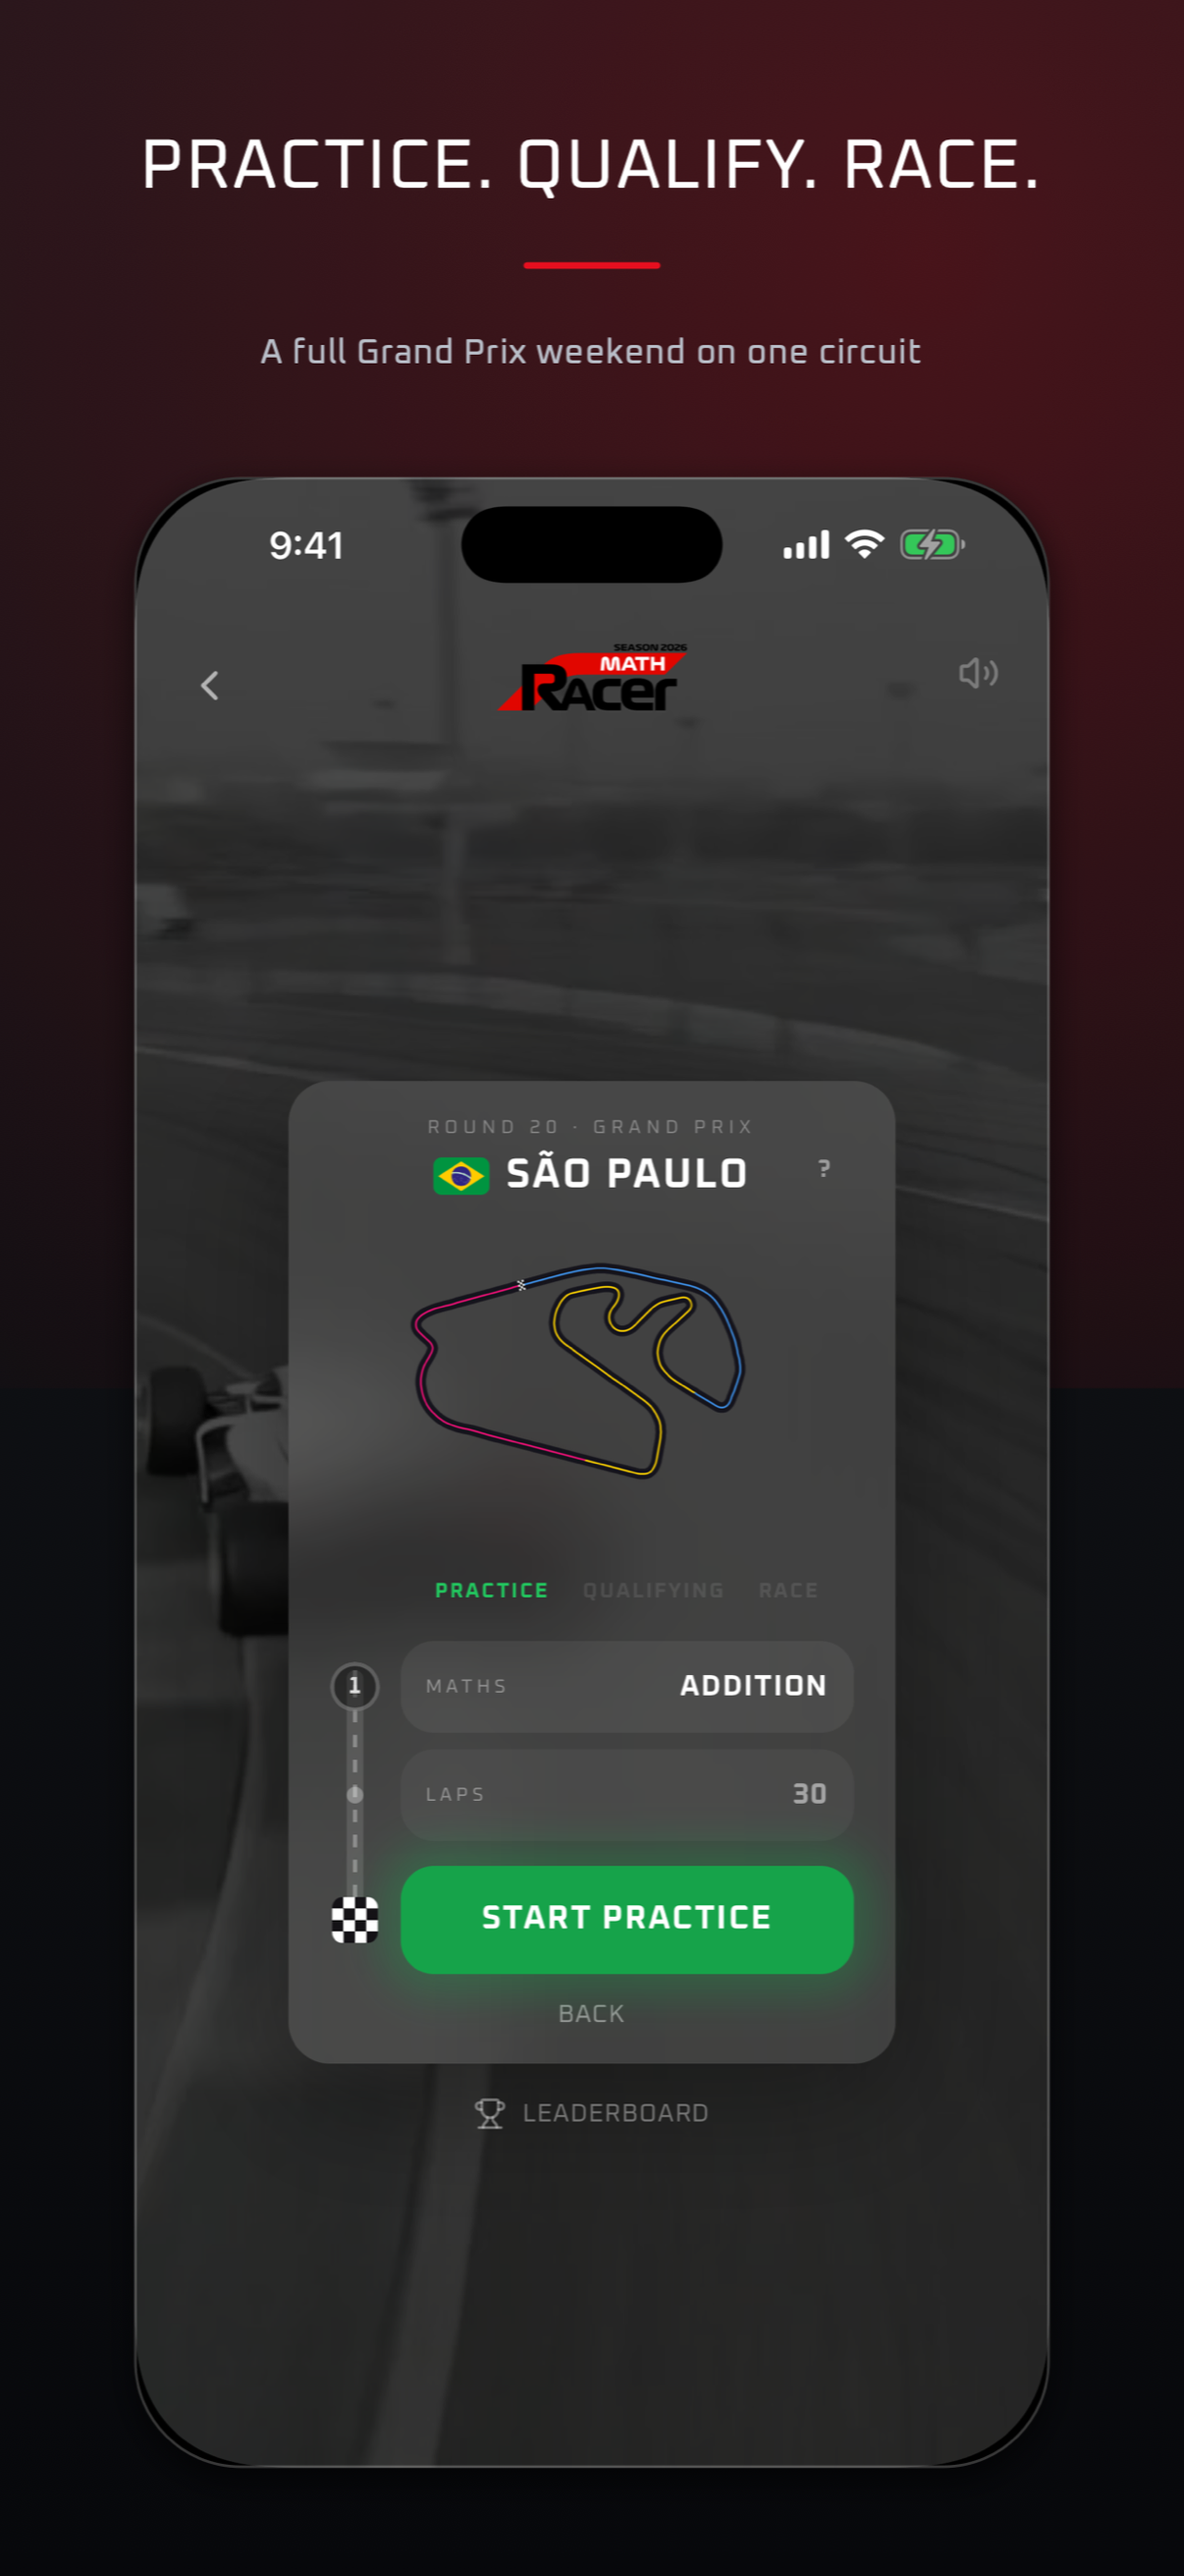
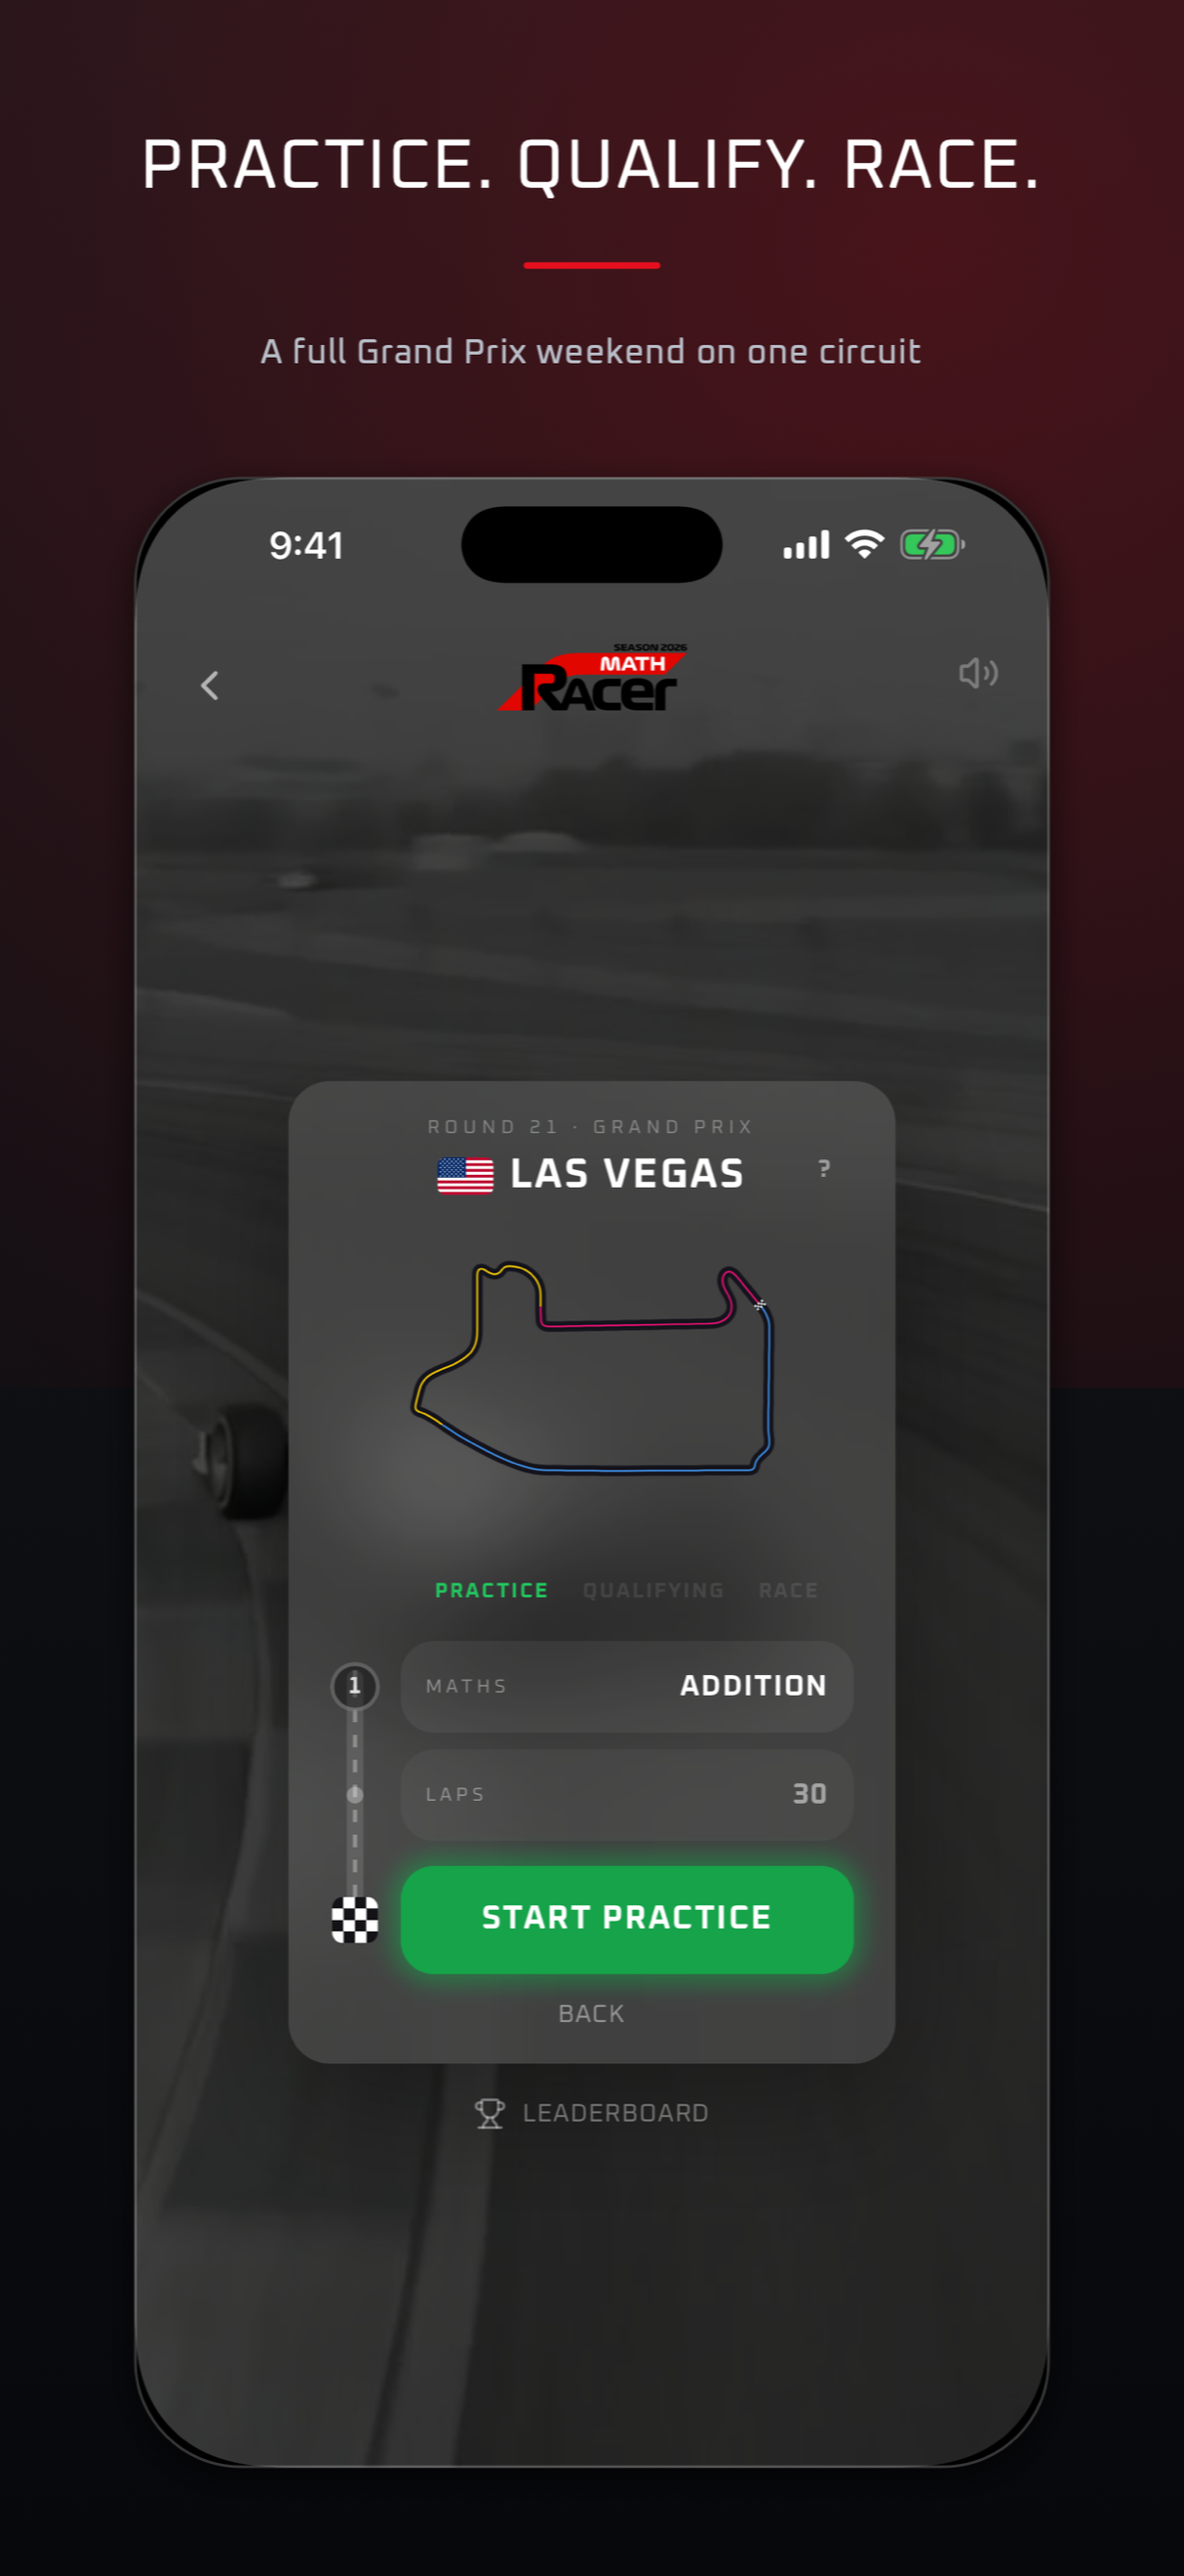
Retake the App Store cards for Las Vegas
The cards that show the current Grand Prix still showed Round 20 /
São Paulo. Recaptured on the iOS 26.5 simulators with 1.3.21:
- iPhone 04_grand_prix, 05_paddock, 09_season_map (6.9" and the 6.3"
  copies)
- iPad 04_grand_prix, 05_paddock, 09_season_map
- 09 is still the Americas view with seeded Canada gold and Miami silver;
  this week's red pin is now LVG, and with every Americas round open there
  is no dimmed future pin left
- iPad 01_race (header chip), from a scratch capture-only bundle (practice
  bot time x24) in a re-signed copy of the simulator app, so dist/ and
  ios/ never held it: purple, green, yellow, purple, green, purple, purple
  at Lap 8/30 with AERO lit

README: the last-captured round, this time's answer timings (x12 was too
tight for 20 s panel answers), and when to switch 09 to the Middle East.

diff --git a/app_store/README.md b/app_store/README.md
@@ -28,7 +28,7 @@ product page.
 | `09_season_map` | Race any weekend of the season | Pick a round on the 2026 world map and win its trophy |
 
 `04`, `05`, `09` and the iPad `01` (its header chip) show the current Grand Prix. They
-were last captured on Round 20 / São Paulo. `02` shows Race Day's lap count
+were last captured on Round 21 / Las Vegas. `02` shows Race Day's lap count
 (`/56`, from Round 16 / Malaysia) but no circuit name. `06` shows the Reaction Test target
 (`REACTION_LICENCE_MS`, 0.40s), so retake it if that changes.
 
@@ -110,6 +110,13 @@ Captions use Oxanium, the same font as the app.
   keypad, so tap each digit. The 2026-11-06 iPad card stops at Lap 8/30
   (yellow, green, yellow, purple, green, purple, purple) with AERO lit, taken from a
   short burst because the AERO button pulses; the iPhone `01` card (2026-10-27) at Lap 7/30 with its next answer typed.
+  On 2026-11-19 each panel answer took about 20 s and x12 gave only green and yellow,
+  so the bundle was rebuilt with x24: answering straight away (about 15-20 s) gave
+  purple, about 40 s green and about 70 s yellow (type the digits, then wait in a
+  background `sleep` before ✓; a long foreground sleep is blocked). A ✓ tapped right
+  after a digit was sometimes dropped, so pause about 0.5 s first. That iPad card stops
+  at Lap 8/30 (purple, green, yellow, purple, green, purple, purple) with AERO lit;
+  pick the burst frame where the AERO button is deepest blue.
 - **Season Map (`09`)** is the Americas region view (Hub, MAP, then the AMERICAS
   bubble), so it shows every pin state: trophy rings, open rounds, this week's red
   pin and a dimmed future round with its date. The trophies are seeded, like `08`:
@@ -119,6 +126,9 @@ Captions use Oxanium, the same font as the app.
   operation, at }`. Keep trophies off pins that `spreadPins` nudges (Austin and Mexico
   City here): a trophy pin's fill is see-through, so the leader-line dot under it
   shows. This week's pin pulses, so take a short burst and pick a frame with the ring.
-  Remove the seeded trophies afterwards.
+  Remove the seeded trophies afterwards. From Round 21 / Las Vegas every Americas round
+  is open, so the view has no dimmed future pin left. Rounds 22 and 23 (Qatar, Abu
+  Dhabi) put this week's red pin in the Middle East, so switch the card to that
+  region's view then.
 - **App opens in a window** on the iPad (window controls top-left, wallpaper
   around it): tap the controls, then the green button, and it stays full screen.
